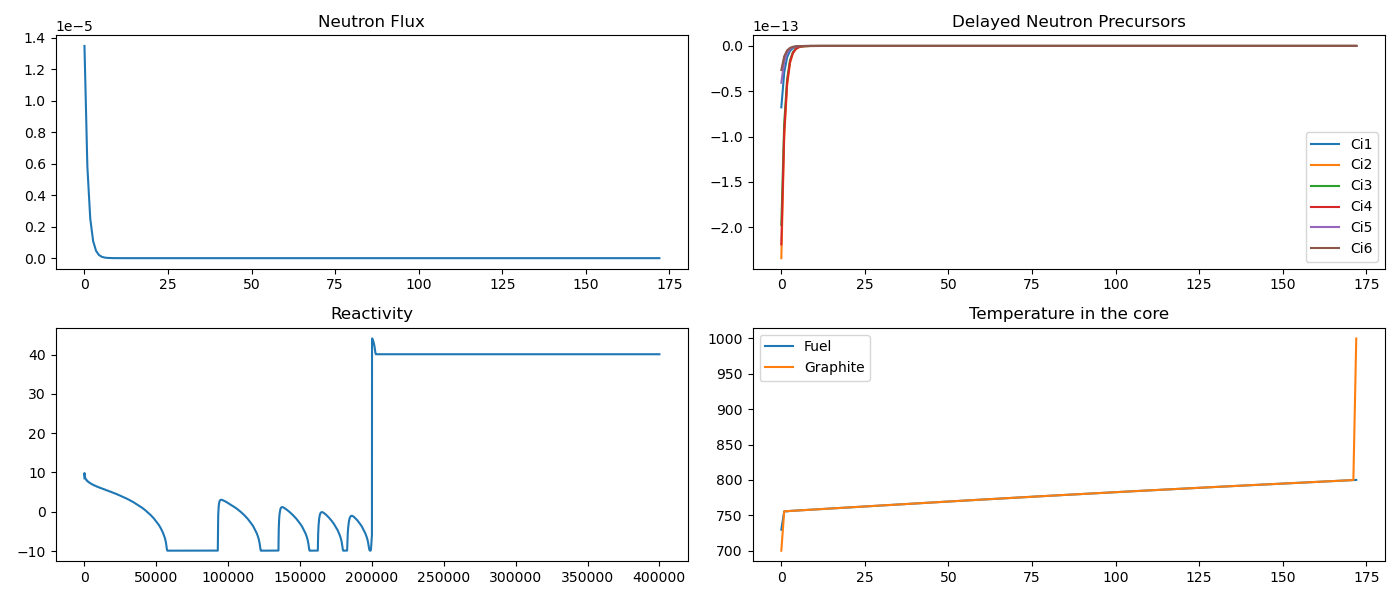
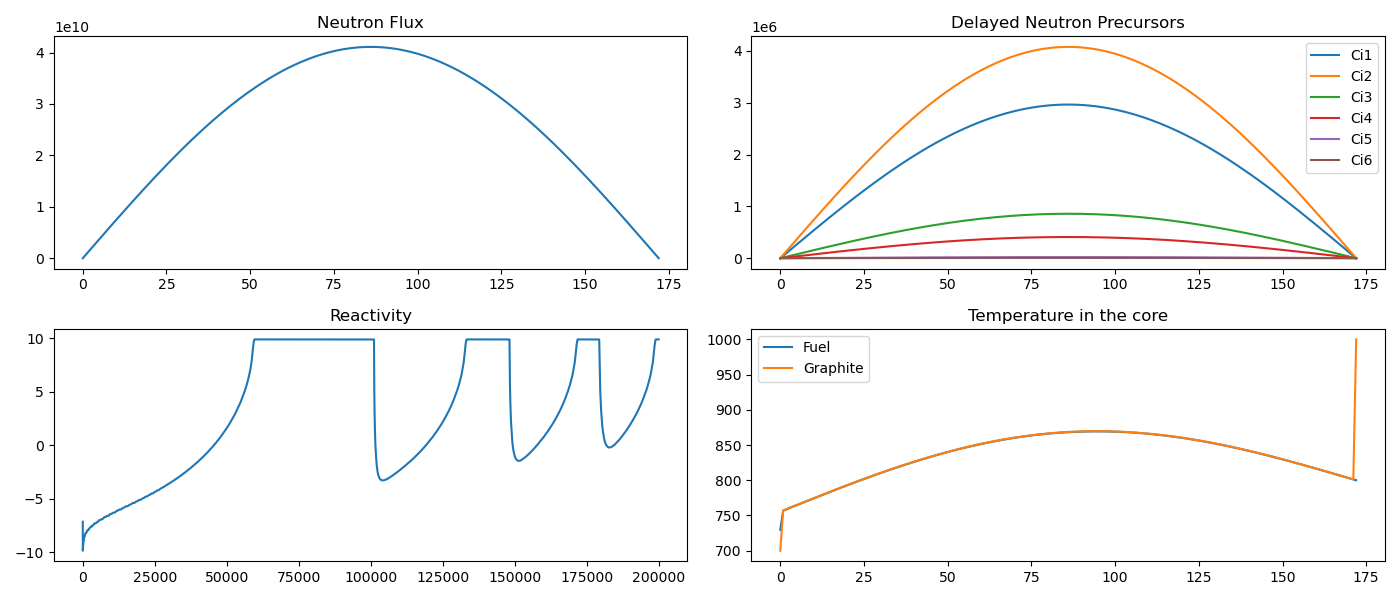
try Lsoda (implicit)

diff --git a/parameters.py b/parameters.py
@@ -2,7 +2,7 @@ import numpy as np
 
 def generate_parameters(
     # Neutronics
-    dt=0.001, # fixed time step, 0.5
+    dt=0.1, # fixed time step, 0.5
     L = 172,  # Length of the spatial domain, cm
     # L = 22.9
     N = 200,  # Number of spatial points
@@ -123,8 +123,8 @@ def generate_parameters(
     # Reactivity
     # rho_init = 0 * np.ones(N)
     max_rho_change = 1e-4,  # Maximum reactivity change, $/beta
-    alpha_f    = -5.904E-5,  # -5.904E-5, U233 (drho/K) fuel salt temperature-reactivity feedback coefficient ORNL-TM-1647 p.3 % -5.904E-05; % ORNL-TM-0728 p. 101 %
-    alpha_g    = -6.624E-5,  # -6.624E-5, U233  (drho/K) graphite temperature-reactivity feedback coefficient ORNL-TM-1647 p.3 % -6.624E-05; % ORNL-TM-0728 p.101
+    alpha_f    = 5.904E-5,  # -5.904E-5, U233 (drho/K) fuel salt temperature-reactivity feedback coefficient ORNL-TM-1647 p.3 % -5.904E-05; % ORNL-TM-0728 p. 101 %
+    alpha_g    = 6.624E-5,  # -6.624E-5, U233  (drho/K) graphite temperature-reactivity feedback coefficient ORNL-TM-1647 p.3 % -6.624E-05; % ORNL-TM-0728 p.101
     tau_l  = 16.73,  # ORNL-TM-0728 %16.44; % (s)
     tau_c  = 8.46,   # ORNL-TM-0728 %8.460; % (s)
 

diff --git a/neutronics.py b/neutronics.py
@@ -53,14 +53,14 @@ def neutronics(y_n, rho, step, params):
         for i in range(6):
             lambda_ci += lambda_i[i] * y[(i + 1) * N:(i + 2) * N]
 
-        rhs_phi = B @ phi + dt * V * ((-sigma_a + ((1 - Beta) * nu_sigma_f / Keff)) * phi + lambda_ci)
+        rhs_phi = B @ phi + dt * V * ((-sigma_a + ((1 - Beta) * nu_sigma_f * (1+rho))) * phi + lambda_ci)
 
         phi_new = spsolve(A, rhs_phi)
         dphi_dt = (phi_new - phi) / dt
 
         dci_dt = np.zeros((6, N))
         for i in range(6):
-            dci_dt[i] = beta[i] * (nu_sigma_f / Keff) * phi - (lambda_i[i] * y[(i + 1) * N:(i + 2) * N])
+            dci_dt[i] = beta[i] * (nu_sigma_f * (1+rho)) * phi - (lambda_i[i] * y[(i + 1) * N:(i + 2) * N])
         
         return np.concatenate([dphi_dt, dci_dt[0], dci_dt[1], dci_dt[2], dci_dt[3], dci_dt[4], dci_dt[5]])
 

diff --git a/main.py b/main.py
@@ -13,14 +13,14 @@ from transport_delay import transport_delay
 from power_plant import power_plant_temp
 
 def run_simulation(params, index):
-    time_span = 400000
+    time_span = 2000
     N = params['N']
     Nx = params['Nx']
     initialS = params['initialS']
     initialG = params['initialG']
 
     # Extract parameters
-    rho_insertion = 5 * np.ones(N)     # pcm
+    rho_insertion = - 0 * np.ones(N)     # pcm, add control rod insertion -> negative reactivity
     rho = params['rho_init'] * np.ones(N)
     # rho = 0 * np.ones(N)
     y_n = np.zeros((7 * N, 1))

diff --git a/ode_solver.py b/ode_solver.py
@@ -17,6 +17,6 @@ def ode_solver(ic, bc, vector_to_be_solved, params):
     
     time_span=(0,1)
     # Solve the system of ODEs
-    solution = solve_ivp(vector_to_be_solved, time_span, y0, method='RK23')
+    solution = solve_ivp(vector_to_be_solved, time_span, y0, method='LSODA')
     
     return solution
